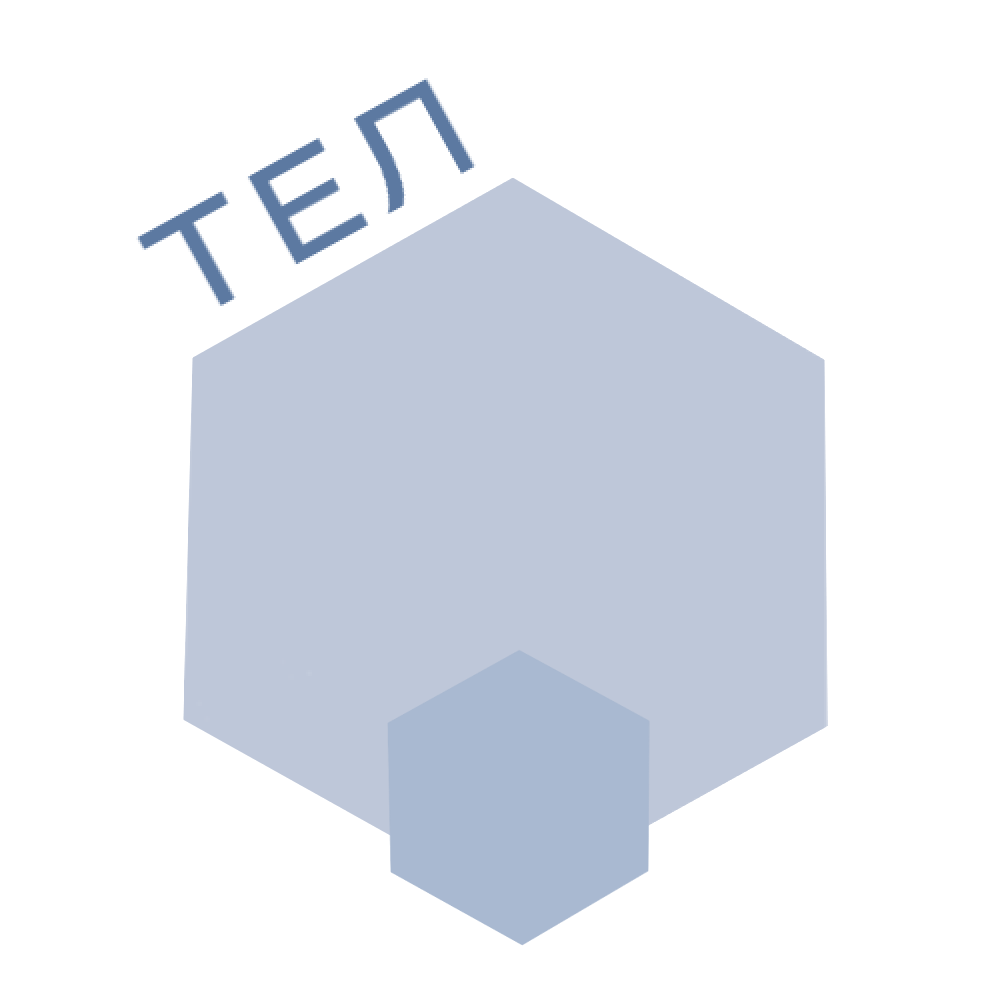
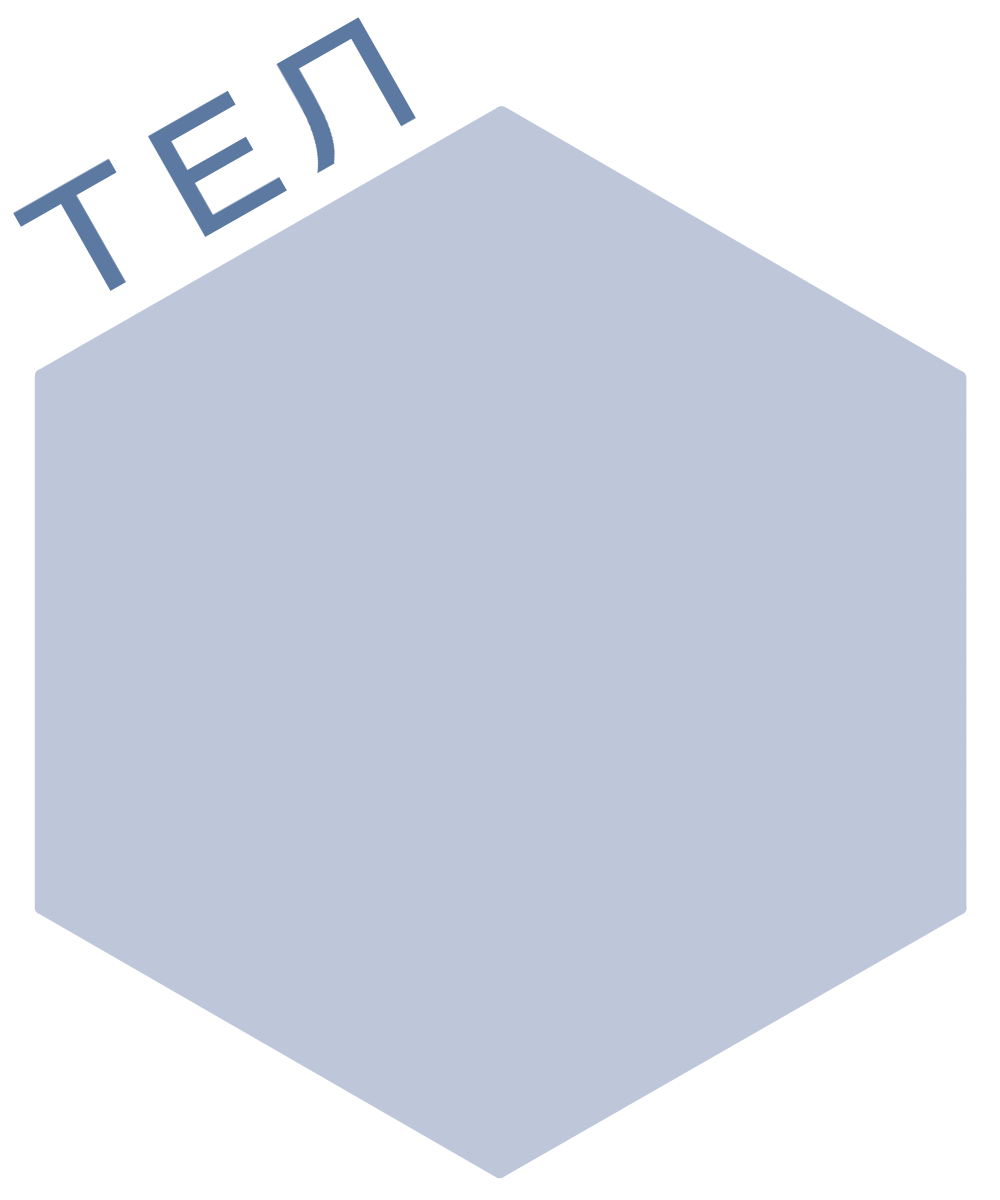
Восстановил макет AbilityScoreControl

Changed region(s): [[0.0, 0.0, 0.992, 0.992]]

diff --git a/DnD_Helper/Resources/Controls/AbilityScoreControl.xaml b/DnD_Helper/Resources/Controls/AbilityScoreControl.xaml
@@ -4,12 +4,18 @@
       x:Class="DnD_Helper.Resources.Controls.AbilityScoreControl"
       xmlns:controls="clr-namespace:DnD_Helper.Resources.Controls"
       x:DataType="controls:AbilityScoreControl"
-      ColumnDefinitions="*"
-      ColumnSpacing="-60">
+      ColumnDefinitions="*, 3*, *">
 
-    <Label x:Name="TestLabel"
-                   VerticalOptions="CenterAndExpand"
-                   HorizontalOptions="CenterAndExpand"
-                   FontSize="56"/>
-
+    <ImageButton Source="minus_button.png"
+                 Aspect="AspectFit" />
+    <Grid Grid.Column="1">
+        <Image Source="intelligence_counter.png" />
+        <Label Text="0"
+               HorizontalOptions="Center"
+               VerticalOptions="Center"
+               FontSize="56" />
+    </Grid>
+    <ImageButton Grid.Column="2"
+                 Source="plus_button.png"
+                 Aspect="AspectFit"/>
 </Grid>

diff --git a/DnD_Helper/AbilityScoresSelectionPage.xaml b/DnD_Helper/AbilityScoresSelectionPage.xaml
@@ -8,14 +8,9 @@
              x:DataType="app:AbilityScoresSelectionPage"
              Style="{StaticResource ContentPage}">
 
-    <Grid RowDefinitions="*, *, *">
-        <Label Text="{Binding TestString}"
-               VerticalOptions="Center"
-               HorizontalOptions="Center"
-               FontSize="50" />
-        <controls:AbilityScoreControl x:Name="counter"
-            Grid.Row="1" ValueDisplay="{Binding TestString}"/>
-        <Button Grid.Row="2" Clicked="Button_Clicked" />
+    <Grid RowDefinitions="*"
+          ColumnDefinitions="*">
+        <controls:AbilityScoreControl />
     </Grid>
     
 </ContentPage>

diff --git a/DnD_Helper/AbilityScoresSelectionPage.xaml.cs b/DnD_Helper/AbilityScoresSelectionPage.xaml.cs
@@ -5,36 +5,12 @@ namespace DnD_Helper;
 
 public partial class AbilityScoresSelectionPage : ContentPage
 {
-    private string testString = "the sweetest victory";
-    private Abilities abilities = new Abilities(0, 0, 0, 0, 0, 0);
+	private Abilities abilities;
 
 	public AbilityScoresSelectionPage()
 	{
 		InitializeComponent();
 
         BindingContext = this;
-    }
-
-    public AbilityScore Strength
-        => abilities.Strength;
-
-    public AbilityScore Intelligence
-		=> abilities.Intelligence;
-
-    public string TestString
-    {
-        get => testString;
-        set
-        {
-            if (testString == value)
-                return;
-            testString = value;
-            OnPropertyChanged();
-        }
-    }
-
-    private void Button_Clicked(object sender, EventArgs e)
-    {
-        TestString = "What?";
     }
 }

diff --git a/DnD_Helper/Resources/Controls/AbilityScoreControl.xaml.cs b/DnD_Helper/Resources/Controls/AbilityScoreControl.xaml.cs
@@ -4,26 +4,10 @@ namespace DnD_Helper.Resources.Controls;
 
 public partial class AbilityScoreControl : Grid
 {
-	public static readonly BindableProperty ValueDisplayProperty = BindableProperty.Create(
-		nameof(ValueDisplay), typeof(string), typeof(AbilityScoreControl),
-		defaultValue: "default");
+
 
 	public AbilityScoreControl()
 	{
 		InitializeComponent();
-	}
-
-	public string ValueDisplay
-	{
-		get => GetValue(ValueDisplayProperty).ToString();
-		set => SetValue(ValueDisplayProperty, value);
-	}
-
-	protected override void OnPropertyChanged(string propertyName)
-	{
-		base.OnPropertyChanged(propertyName);
-
-		if(propertyName == ValueDisplayProperty.PropertyName)
-			TestLabel.Text = ValueDisplay;
 	}
 }
